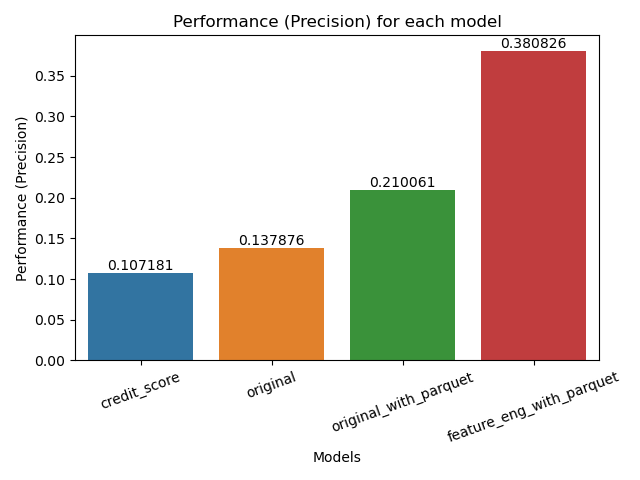
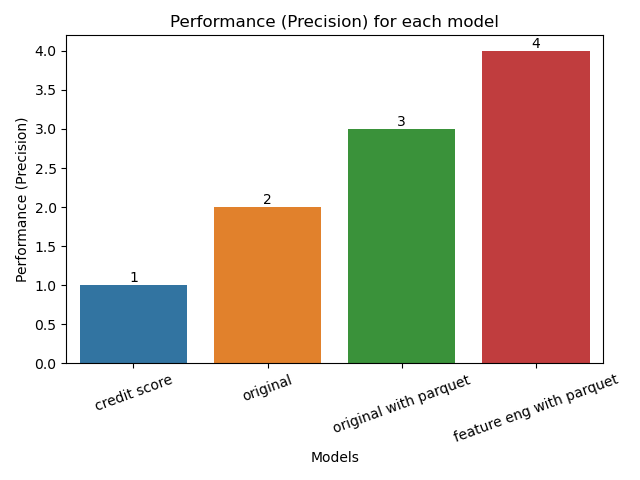
changed time graph to colors, updated model labels so no underscore

diff --git a/src/risknet/run/main.py b/src/risknet/run/main.py
@@ -52,7 +52,7 @@ elapsed = end - start
 print("Time to run all " + str(len(order)) + " models and plot: " + str(round((elapsed / 60), 2)) + " minutes")
 #About 25 minutes to run all models
 
-order = ['credit_score', 'original', 'original_with_parquet', 'feature_eng_with_parquet']
+order = ['credit score', 'original', 'original with parquet', 'feature eng with parquet']
 
 models = pd.DataFrame(
     {'model': order,
@@ -68,7 +68,7 @@ plt.figure(figsize=(20,10)) # 12 inch wide, 4 inch high
 fig, ax = plt.subplots()
 auc_bar = sns.barplot(data=models, x='model', y='auc').set_title('Performance (AUC) for each model')
 ax.bar_label(ax.containers[0], fontsize=10)
-ax.set(xlabel='Models', ylabel='Performance (AUC)')
+ax.set(xlabel='Models', ylabel='AUC')
 ax.set_xticklabels(order, rotation = 20, fontsize=10)
 plt.tight_layout()
 plt.savefig('graphs/aucs.png')
@@ -78,7 +78,7 @@ plt.figure(figsize=(20,10)) # 12 inch wide, 4 inch high
 fig, ax = plt.subplots()
 pr_bar = sns.barplot(data=models, x='model', y='prs').set_title('Performance (Precision) for each model')
 ax.bar_label(ax.containers[0], fontsize=10)
-ax.set(xlabel='Models', ylabel='Performance (Precision)')
+ax.set(xlabel='Models', ylabel='Precision')
 ax.set_xticklabels(order, rotation = 20, fontsize=10)
 plt.tight_layout()
 plt.savefig('graphs/prs.png')
@@ -86,12 +86,10 @@ plt.show()
 
 plt.figure(figsize=(20,10)) # 12 inch wide, 4 inch high
 fig, ax = plt.subplots()
-rects = ax.bar(order, ts)
+pr_bar = sns.barplot(data=models, x='model', y='times').set_title('Cost (Time) for each model')
 ax.bar_label(ax.containers[0], fontsize=10)
-ax.set_ylabel("Time")
+ax.set(xlabel='Models', ylabel='Time (Minutes)')
 ax.set_xticklabels(order, rotation = 20, fontsize=10)
-ax.set(xlabel='Models', ylabel='Time (minutes)')
-ax.set_title("Time to Train Models")
 plt.tight_layout()
 plt.savefig('graphs/time.png')
 plt.show()
